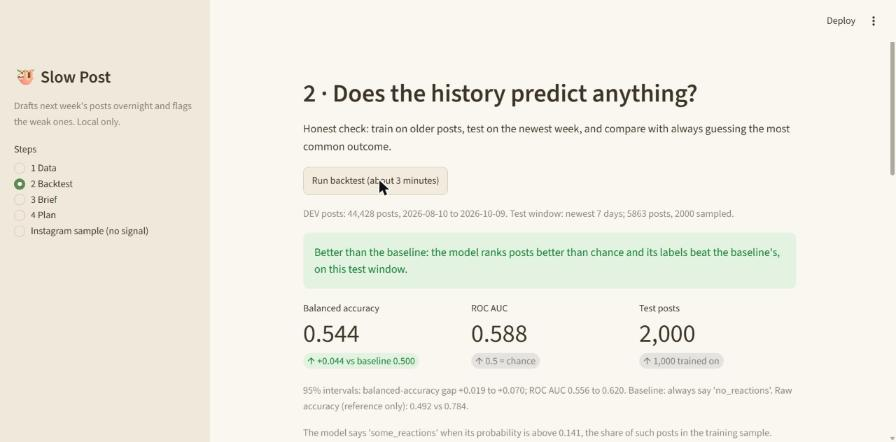
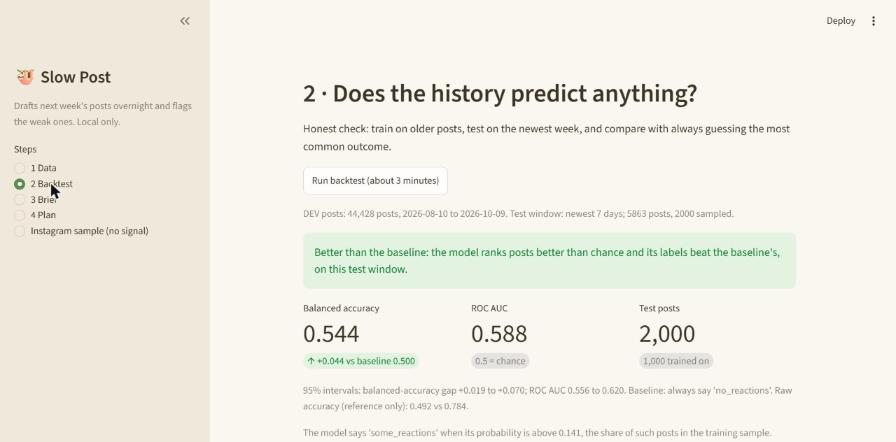
M5: evidence, README, walkthrough GIF, near-duplicate title fix
README with headline results, setup, data-stays-local, licence note and credits.
Fresh screenshots and a walkthrough GIF. Near-duplicate titles get a second
regeneration with a clearly different angle before being flagged. Delta arrow on the
balanced-accuracy metric only when the interval excludes zero.

diff --git a/slowpost/drafts.py b/slowpost/drafts.py
@@ -191,7 +191,8 @@ def titles_similar(a: str, b: str) -> bool:
 
 
 def build_prompt(brief: str, angle: str, facts: dict | None, error: str | None = None,
-                 project_facts: str = "", avoid_titles: tuple[str, ...] = ()) -> str:
+                 project_facts: str = "", avoid_titles: tuple[str, ...] = (),
+                 different_angle: str = "") -> str:
     brief = " ".join(brief.split())[:MAX_BRIEF_CHARS]
     lines = [
         "You write ideas for a DEV (dev.to) post. Output JSON that follows the given schema.",
@@ -224,6 +225,9 @@ def build_prompt(brief: str, angle: str, facts: dict | None, error: str | None =
     if avoid_titles:
         lines.append("The title must be clearly different from these existing titles: "
                      + " | ".join(avoid_titles))
+    if different_angle:
+        lines.append("Use a clearly different angle from the other drafts: take this one: "
+                     f"{different_angle}. Do not reuse their wording.")
     if error:
         lines.append(f"Your previous answer was invalid ({error}). Fix it.")
     return "\n".join(lines)
@@ -235,12 +239,14 @@ def _short(e: ValidationError) -> str:
 
 def draft_one(brief: str, angle: str, slot: tuple[str, int], facts: dict | None,
               chat: Chat = ollama_chat, project_facts: str = "",
-              avoid_titles: tuple[str, ...] = ()) -> tuple[DevDraft | None, str | None]:
+              avoid_titles: tuple[str, ...] = (), different_angle: str = ""
+              ) -> tuple[DevDraft | None, str | None]:
     """One draft, validated, retried once. Returns (draft, None) or (None, reason)."""
     schema = DraftText.model_json_schema()
     error = None
     for _attempt in (1, 2):
-        raw = chat(build_prompt(brief, angle, facts, error, project_facts, avoid_titles), schema)
+        raw = chat(build_prompt(brief, angle, facts, error, project_facts, avoid_titles,
+                                different_angle), schema)
         try:
             text = DraftText.model_validate_json(raw)
         except ValidationError as e:
@@ -269,12 +275,22 @@ def generate_drafts(brief: str, n: int = DEFAULT_N, history: pd.DataFrame | None
         draft, err = draft_one(brief, angle, slots[i], facts, chat, project_facts)
         earlier = tuple(r["draft"].title for r in out if r["draft"])
         if draft and any(titles_similar(draft.title, t) for t in earlier):
-            again, _err2 = draft_one(brief, angle, slots[i], facts, chat, project_facts, earlier)
-            if again and not any(titles_similar(again.title, t) for t in earlier):
-                again.notes.append("title regenerated once: first one was a near-duplicate")
-                draft = again
-            else:
-                draft.notes.append("near-duplicate title; one regeneration did not fix it")
+            # Up to two regenerations: first avoiding the existing titles, then with a clearly
+            # different angle. If the title is still a near-duplicate, keep it and flag it.
+            fixed = False
+            for attempt in (1, 2):
+                other = ANGLES[(i + 3) % len(ANGLES)] if attempt == 2 else ""
+                again, _err2 = draft_one(brief, angle, slots[i], facts, chat, project_facts,
+                                         earlier, other)
+                if again and not any(titles_similar(again.title, t) for t in earlier):
+                    again.notes.append("title regenerated "
+                                       + ("once" if attempt == 1 else "twice (second time with "
+                                          "a clearly different angle)")
+                                       + ": the first one was a near-duplicate")
+                    draft, fixed = again, True
+                    break
+            if not fixed:
+                draft.notes.append("near-duplicate title; two regenerations did not fix it")
         out.append({
             "slot": slots[i], "angle": angle, "draft": draft, "error": err,
             "features": draft_features(draft) if draft else None,

diff --git a/tests/test_score.py b/tests/test_score.py
@@ -255,3 +255,33 @@ def test_supported_features_come_from_clear_signal_groups():
         "has cover image": {"clear": True}, "title has question": {"clear": False},
         "title has number": {"clear": True}, "weekday": {"clear": False}}}
     assert supported_features(summary) == {"has_cover_image", "title_has_number"}
+
+
+def test_second_regeneration_uses_a_clearly_different_angle():
+    titles = iter(["Same headline for both", "Same headline for both",
+                   "Same headline for both", "Something else entirely"])
+    prompts = []
+
+    def chat(prompt, schema):
+        prompts.append(prompt)
+        return DraftText(title=next(titles), tags=["python"], cover_idea="cov",
+                         outline=["a", "b", "c"], reading_time_minutes=5).model_dump_json()
+
+    out = generate_drafts("brief", 2, chat=chat)
+    second = out[1]["draft"]
+    assert second.title == "Something else entirely" and len(prompts) == 4
+    assert "clearly different angle" in prompts[-1] and "clearly different angle" not in prompts[-2]
+    assert any("twice" in n for n in second.notes)
+
+
+def test_persistent_duplicate_is_flagged_after_two_regenerations():
+    prompts = []
+
+    def chat(prompt, schema):
+        prompts.append(prompt)
+        return DraftText(title="Same headline", tags=["python"], cover_idea="cov",
+                         outline=["a", "b", "c"], reading_time_minutes=5).model_dump_json()
+
+    out = generate_drafts("brief", 2, chat=chat)
+    assert len(prompts) == 4  # draft 1: 1 call; draft 2: 1 + 2 regenerations
+    assert any("two regenerations did not fix it" in n for n in out[1]["draft"].notes)

diff --git a/app.py b/app.py
@@ -105,7 +105,9 @@ def render_backtest(data: dict) -> None:
         st.success(r["verdict"])
     c1, c2, c3 = st.columns(3)
     c1.metric("Balanced accuracy", f"{r['balanced_accuracy']:.3f}",
-              f"{r['ba_gap']:+.3f} vs baseline {r['baseline_balanced_accuracy']:.3f}")
+              f"{r['ba_gap']:+.3f} vs baseline {r['baseline_balanced_accuracy']:.3f}",
+              delta_color="normal" if r["ba_gap_ci"][0] > 0 else "off",
+              delta_arrow="up" if r["ba_gap_ci"][0] > 0 else "off")
     c2.metric("ROC AUC", f"{r['auc']:.3f}", "0.5 = chance", delta_color="off",
               delta_arrow="off")
     c3.metric("Test posts", f"{r['n_test']:,}", f"{r['n_train']:,} trained on", delta_color="off",

diff --git a/README.md b/README.md
@@ -1,8 +1,101 @@
-# slowpost
+# Slow Post
 
-A local app that learns from your past posts, drafts next week's posts overnight with Gemma, and flags likely underperformers with TabPFN. Everything runs on your laptop. Work in progress for the DEV Hacktoberfest challenge.
+Slow Post learns from a post history, drafts next week's posts overnight on your laptop with Gemma, and flags the drafts that are likely to underperform with TabPFN. It reports honestly how well that works: every prediction is backed by a time-ordered backtest against a "most common outcome" baseline, and if a history holds no signal, the app says so.
 
-## Data credits
+Everything runs locally: no cloud AI, no telemetry. Built for the DEV Hacktoberfest challenge. The demo source is real DEV posts; a public Instagram sample is the "no signal" test case.
 
-- **Sample file `sample/sample_posts.csv`** is one account (`account_id` 15, 1,599 posts) from the "Instagram Analytics Dataset" by Kundan Sagar Bedmutha, <https://www.kaggle.com/datasets/kundanbedmutha/instagram-analytics-dataset>, licensed [CC BY 4.0](https://creativecommons.org/licenses/by/4.0/). Rows are unchanged; only the one account was selected.
-- **DEV posts**: the demo source. Public post data comes from [DEV's public API](https://developers.forem.com/api) (`https://dev.to/api/articles`). It is fetched at run time into `data/dev_posts.csv`, which is git-ignored and never committed. Only post id, time, title, tags, reading time, cover-image flag, and reaction and comment counts are kept. Author names and usernames are not stored.
+![The week's plan: Strong, Okay and Weak drafts with the measured lift](docs/screenshots/09-plan-labels.jpg)
+
+Walkthrough (Data, Backtest, Brief, Plan, Download): `docs/slowpost-walkthrough.gif`. More screenshots are in `docs/screenshots/`.
+
+## Headline results
+
+All numbers come from a time-ordered backtest: train on a random sample of up to 1,000 older posts, test on up to 2,000 posts sampled from the newest 7 days. Intervals are 95% bootstrap intervals.
+
+**DEV posts** (44,428 public posts from 10 Aug to 9 Oct 2026, label: "gets any reactions"; 15.6% do):
+
+| | Result |
+|---|---|
+| Balanced accuracy | 0.544 vs 0.500 for the baseline (gap +0.044, CI +0.019 to +0.070) |
+| ROC AUC | 0.588 (CI 0.556 to 0.620; 0.5 is chance) |
+| Lift, model's top 10% (200 test posts) | 36.0% got reactions vs 21.6% overall = **1.67x** (CI 1.37 to 1.97) |
+| Lift, model's top 20% (400 test posts) | 29.8% got reactions vs 21.6% overall = 1.38x (CI 1.18 to 1.56) |
+| Verdict | Better than the baseline. A weak but real signal: use it to rank ideas, not to promise results. |
+
+Raw accuracy is not a good measure here: "always no reactions" would score 78%, so the app reports balanced accuracy, ROC AUC and lift instead.
+
+**Instagram sample** (one account, 1,599 posts, label: thirds of engagement):
+
+| | Result |
+|---|---|
+| Balanced accuracy | 0.379 vs 0.333 for the baseline (gap +0.045, CI -0.001 to +0.095) |
+| ROC AUC | 0.526 (CI 0.479 to 0.573) |
+| Signal summary | No feature shows a clear difference after correcting for testing several at once |
+| Verdict | **No better than the baseline.** The history has no signal and the app says so. |
+
+## How a run works
+
+1. **Data:** fetch public DEV posts (tags webdev, python, javascript, beginners; posts at least 14 days old).
+2. **Backtest:** TabPFN is fitted on older posts and tested on the newest week. The result includes a signal summary: which features (cover image, tags, hour, title, and so on) show a clear difference.
+3. **Brief:** write what the posts are about, plus optional facts about your project. Gemma drafts posts (title, up to 4 tags from your history's most common tags, cover idea, outline, reading time, day and hour in UTC and local time). Features are computed by code, never by Gemma.
+4. **Plan:** each draft gets Strong, Okay or Weak, with the measured test-window numbers next to the labels. A what-if panel separates "Backed by the data" from "The model's guess". A weak draft is rewritten once, only if a change backed by the data is expected to help.
+5. **Download:** edit the cards and download `plan.csv`. Edits are not rescored.
+
+Nothing is ever posted for you.
+
+## Setup (Git Bash on Windows)
+
+Developed and tested on Python 3.14 with [Ollama](https://ollama.com) and roughly 6 GB of free RAM. It runs on CPU. A run takes about 10 minutes for 5 drafts. Gemma and TabPFN never run at the same time.
+
+```bash
+git clone git@github.com:Abeera81/slowpost.git
+cd slowpost
+python -m venv .venv
+source .venv/Scripts/activate
+pip install -r requirements.txt
+
+ollama pull gemma3:4b          # one time; keep Ollama running (ollama serve, or the app)
+```
+
+TabPFN weights are downloaded the first time it runs, after you accept the licence at Prior Labs. If it asks for a token, put it in a `.env` file in the project folder as `TABPFN_TOKEN=...`. `.env` is git-ignored and never printed.
+
+### Run
+
+```bash
+source .venv/Scripts/activate
+streamlit run app.py                         # the app: Data, Backtest, Brief, Plan
+
+# or step by step
+python scripts/fetch_dev_posts.py            # fetch DEV posts into data/dev_posts.csv
+python scripts/run_backtest.py --source dev  # backtest + signal summary (about 3 min)
+python scripts/run_backtest.py --source instagram   # the "no signal" sample
+python scripts/run_overnight.py --brief "..." --facts "..."   # headless run (about 10 min)
+python scripts/draft_demo.py --brief "..."   # drafts only
+pytest -m "not slow"                         # tests (slow ones need Ollama)
+ruff check .
+```
+
+## Your data stays on your laptop
+
+- Gemma runs through Ollama on your machine; TabPFN runs with the local `tabpfn` package, never the cloud client. There is no telemetry and no cloud AI.
+- The only network calls are fetching public DEV posts and downloading models. After that, the app works offline.
+- `data/` (fetched posts, backtests, run outputs) is git-ignored. Only `sample/sample_posts.csv` is committed.
+- DEV posts are fetched from the public API, and only these fields are stored: post id, time, title, tags, reading time, cover-image flag, reaction count and comment count. Author names and usernames are never stored. Gemma sees computed summaries, never DEV titles.
+
+## Licences
+
+- **Our code is MIT** (see `LICENSE`).
+- **TabPFN model weights have their own licence, and they are non-commercial.** Read Prior Labs' current terms before using Slow Post with them for anything commercial. Slow Post does not include or redistribute the weights.
+- Gemma is used through Ollama under Google's Gemma terms.
+- The Instagram sample is CC BY 4.0 (see credits).
+
+## Credits
+
+- **Instagram Analytics Dataset** by Kundan Sagar Bedmutha, <https://www.kaggle.com/datasets/kundanbedmutha/instagram-analytics-dataset>, licensed [CC BY 4.0](https://creativecommons.org/licenses/by/4.0/). `sample/sample_posts.csv` is one account (`account_id` 15, 1,599 posts) with rows unchanged.
+- **DEV posts** come from [DEV's public API](https://developers.forem.com/api) (`https://dev.to/api/articles`), fetched at run time and not redistributed.
+- **TabPFN** by Prior Labs, and **Gemma** by Google, run through **Ollama**.
+- Built with Claude Code, following the vibe-coding-prompt-template workflow (product requirements, tech design, agent instructions and milestones).
+
+## Changes after the deadline
+
+_None yet._

diff --git a/MEMORY.md b/MEMORY.md
@@ -4,7 +4,7 @@ Update this after major decisions, completed phases, or bugs that future agents 
 
 ## Current State
 
-- Current task: M4 built (Streamlit `app.py`) and browser-checked in Chrome. M5 (evidence, README, demo) and M6 (article) are next.
+- Current task: M5 evidence done (second full UI run, fresh screenshots, GIF, slow Gemma test, README). M6 (article, DEV post) is next.
 - Current phase: M1 done. M2 (drafting) is next.
 - Next step: M2 drafting with Gemma per source profile. README credits done (Kundan Sagar Bedmutha, Kaggle link; DEV public API).
 - Blocked by: none.
@@ -48,6 +48,7 @@ Checked 2026-10-23 by reading `data/Instagram_Analytics.csv` (setup only, no app
   - M2 demo (5 drafts, gemma3:4b, 163 s total, 28-40 s each, all schema-valid first run): cover idea always non-empty so has_cover_image is always 1 (decision); Gemma tags were mostly invented words and drafts 4 and 5 got the same title; some content errors (TabPFN described as retrieval). Day and hour come from code (best days/hours in the history), not Gemma.
   - M3 real run (2026-10-23, `run_overnight.py`, n=5, with facts): 621 s total = drafting 403 s (longer prompt with 200 allowed tags, 2 title regenerations), backtest fit+predict 112 s, scoring + what-ifs 31 s, rewrite 39 s, rescoring 36 s. Cutoff 0.141, Strong threshold (top 20% of test) 0.200. Test-window evidence: Strong group 29.8% got reactions (1.38x), Okay 21.1%, Weak 18.1%, overall 21.6%. Labels of the 5 drafts: Strong 2, Okay 2, Weak 1. Rewrite of the weak draft (adding a '?') rescored 14.0% -> 22.1% (Strong). Caveat: the question-mark effect is the model's belief; the signal summary found title_has_question not clear after correction (p 0.036 raw), so the reason text overstates evidence. Free RAM dropped to 1.79 GB during Gemma rewrite.
   - M4 (2026-10-23): `app.py` has 5 pages (Data, Backtest, Brief, Plan, Instagram sample). Heavy work runs in subprocesses (fetch, backtest `--save` -> `data/backtests/*.json`, overnight run with `data/runs/_current.json` pid file), so refresh does not stop a run. What-if panel has two groups ("Backed by the data" = clear after correction; "The model's guess" greyed). Rewrite hint comes only from backed-by-data title changes (unit-tested); in the real UI run the one Weak draft was skipped with the reason shown because the title-question change was not backed. Edits are validated and features recomputed by code but NOT rescored (UI says so); plan.csv flags edited rows. Chrome check: missing CSV, Ollama down (test instance on port 8502 with SLOWPOST_DEV_CSV pointing nowhere and OLLAMA_HOST=http://127.0.0.1:1), empty brief, full run (559 s), edit, CSV download all OK. Screenshots in `docs/screenshots/` (no DEV titles or authors). Real run: labels Strong 3, Okay 1, Weak 1; supported features: has_cover_image, hour, main_tag, reading_time_minutes, title_has_number, weekday.
+  - M5 (2026-10-23): second full UI run 621 s (drafting 470 s, backtest 113 s, scoring 37 s); no stale widgets on the Plan page while running. Slow real-Gemma injection test passed (28.8 s): valid draft, no poem, but the topic was unrelated to the brief. Near-duplicate titles now get up to two regenerations (second with a clearly different angle) then a flag. Screenshots refreshed (13, `docs/screenshots/`), GIF `docs/slowpost-walkthrough.gif` (19 frames, recorded over saved results, not live computation). README written; TabPFN-licence wording hedged (non-commercial weights; read Prior Labs terms). Metric delta arrow now shows only when the balanced-accuracy interval excludes zero. Chrome screenshot tool timed out right after scrolls; retry works.
   - Instagram sample (account 15): 1,000 train; newest week too small so the newest 20% (320 posts) is the test window. Balanced accuracy 0.379 vs 0.333 (gap +0.045, CI -0.001 to +0.095); AUC 0.526 (0.479-0.573). Verdict: no better than baseline. No feature has a corrected p below 0.05 (smallest 0.12, hashtags).
   - Training is a random seeded sample from all older posts (user decision), not the 1,000 just before the test window.
 - Open: does the Kaggle data have real patterns (it may be simulated)? The signal check says little or none.
@@ -61,5 +62,5 @@ Checked 2026-10-23 by reading `data/Instagram_Analytics.csv` (setup only, no app
 - [x] M2 Drafting: 7 schema-valid drafts from a brief (Sat 24 Oct morning)
 - [x] M3 Scoring + rewrite: what-if reasons, single rewrite, `pipeline.py` run folder (Sat 24 Oct)
 - [x] M4 UI: Streamlit upload, backtest, calendar, edit, CSV download (Sat 24 Oct afternoon)
-- [ ] M5 Evidence: eval cases, timed real run, screenshots, demo, README (Sat 24 Oct night)
+- [x] M5 Evidence: eval cases, timed real run, screenshots, demo, README (Sat 24 Oct night)
 - [ ] M6 Article: DEV post published (Sun 25 Oct, deadline 11:59 PM PDT)
